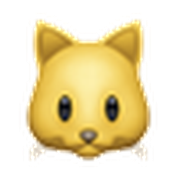
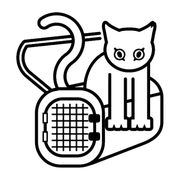
feat: サイトアイコンを猫の絵文字からキャリーバッグイラストに変更、フッター整理

diff --git a/app/events/[id]/page.tsx b/app/events/[id]/page.tsx
@@ -40,7 +40,7 @@ export async function generateMetadata({
   const { id } = await params;
   const { data } = await supabase
     .from("events")
-    .select("title, event_date, location, event_time")
+    .select("title, event_date, location, event_time, image_url")
     .eq("id", id)
     .single();
 
@@ -69,6 +69,9 @@ export async function generateMetadata({
       ...baseOG,
       title,
       description: desc,
+      ...(data?.image_url && {
+        images: [{ url: data.image_url, width: 1200, height: 630, alt: title }],
+      }),
     },
   };
 }
@@ -114,6 +117,22 @@ export default async function EventDetailPage({
           <h1 className="text-2xl font-bold leading-relaxed">{event.title}</h1>
         </div>
       </section>
+
+      {/* Event image (optional) */}
+      {event.image_url && (
+        <section className="max-w-3xl mx-auto px-4 mt-6">
+          <div className="relative w-full aspect-video rounded-3xl overflow-hidden shadow-sm bg-ivory">
+            <Image
+              src={event.image_url}
+              alt={event.title}
+              fill
+              className="object-contain"
+              sizes="(max-width: 768px) 100vw, 768px"
+              priority
+            />
+          </div>
+        </section>
+      )}
 
       {/* Event info */}
       <section className="max-w-3xl mx-auto px-4 mt-6">
@@ -163,6 +182,7 @@ export default async function EventDetailPage({
               url: SITE_URL,
             },
             url: `${SITE_URL}/events/${event.id}`,
+            ...(event.image_url && { image: event.image_url }),
             ...(event.event_time && {
               description: `開催時間：${event.event_time}`,
             }),

diff --git a/app/events/page.tsx b/app/events/page.tsx
@@ -1,4 +1,5 @@
 import type { Metadata } from "next";
+import Image from "next/image";
 import Link from "next/link";
 import { supabase, formatEventDateParts, type CatEvent } from "@/lib/supabase";
 import { baseOG } from "@/lib/og";
@@ -75,7 +76,19 @@ export default async function EventsPage() {
                       🎉 次回開催
                     </div>
                   )}
-                  <div className={`h-1.5 ${accent}`} />
+                  {ev.image_url ? (
+                    <div className="relative w-full h-44 overflow-hidden">
+                      <Image
+                        src={ev.image_url}
+                        alt={ev.title}
+                        fill
+                        className="object-cover"
+                        sizes="(max-width: 768px) 100vw, 768px"
+                      />
+                    </div>
+                  ) : (
+                    <div className={`h-1.5 ${accent}`} />
+                  )}
                   <div className="p-6 flex flex-col sm:flex-row gap-6">
                     {/* Date badge */}
                     <div className={`${accent} text-white rounded-2xl text-center px-5 py-4 min-w-[90px] self-start shadow-sm`}>

diff --git a/components/Footer.tsx b/components/Footer.tsx
@@ -1,3 +1,4 @@
+import Image from "next/image";
 import Link from "next/link";
 
 const navLinks = [
@@ -20,18 +21,12 @@ export default function Footer() {
           {/* Brand */}
           <div className="max-w-xs">
             <div className="flex items-center gap-2 text-xl font-bold mb-3">
-              <span>🐱</span>
+              <Image src="/icon.png" alt="" width={28} height={28} className="invert" />
               <span className="text-peach-light">ねこネコ市保護猫譲渡会</span>
             </div>
             <p className="text-sm text-latte-light leading-relaxed">
               保護主の方々の活動を支援し、保護された猫たちが新しい家族と出会えるようサポートしています。一匹でも多くの猫が幸せな生活を送れますように。
             </p>
-            <div className="flex gap-3 mt-4 text-xl">
-              <span title="保護猫">🐾</span>
-              <span title="里親">🏠</span>
-              <span title="猫">🐱</span>
-              <span title="愛情">💕</span>
-            </div>
           </div>
 
           {/* Nav */}

diff --git a/components/Header.tsx b/components/Header.tsx
@@ -1,5 +1,6 @@
 "use client";
 
+import Image from "next/image";
 import Link from "next/link";
 import { usePathname } from "next/navigation";
 import { useState } from "react";
@@ -26,7 +27,13 @@ export default function Header() {
       <div className="max-w-5xl mx-auto px-4 h-16 flex items-center justify-between gap-4">
         {/* Logo */}
         <Link href="/" className="flex items-center gap-2 shrink-0 group">
-          <span className="text-2xl group-hover:animate-float-sm transition-all">🐱</span>
+          <Image
+            src="/icon.png"
+            alt=""
+            width={32}
+            height={32}
+            className="group-hover:animate-float-sm transition-all"
+          />
           <span className="font-bold text-lg text-caramel group-hover:text-peach transition-colors">
             ねこネコ市保護猫譲渡会
           </span>

diff --git a/lib/supabase.ts b/lib/supabase.ts
@@ -45,6 +45,7 @@ export type CatEvent = {
   event_date: string // "YYYY-MM-DD"
   location: string | null
   event_time: string | null
+  image_url: string | null
   created_at: string
 }
 